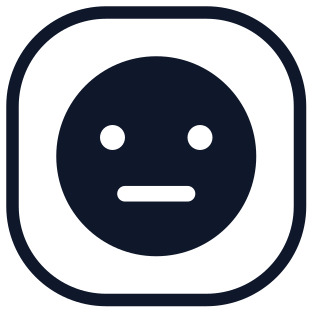
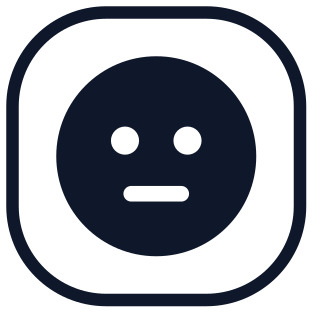
Increase neutral companion appearance chance

diff --git a/my-app/src/components/characterCompanion/CharacterCompanion.jsx b/my-app/src/components/characterCompanion/CharacterCompanion.jsx
@@ -259,10 +259,29 @@ const CharacterCompanion = forwardRef(({
 		};
 	}, [lastCompletedActivity, isTestFinished, isSpecialModeActive, consecutiveDrops, resilience, speak]);
 
+	useEffect(() => {
+		if (tourStep && tourStep !== '0') return;
+		if (isSpecialModeActive) return;
+
+		const hintInterval = setInterval(() => {
+			const now = Date.now();
+			const lastSpeak = Number(localStorage.getItem("lastCompanionSpeakTime") || 0);
+			// 60 seconds cooldown for random hints
+			if (now - lastSpeak > 60000) {
+				// 30% chance to appear every 10 seconds if cooldown is met
+				if (Math.random() < 0.3) {
+					setIsVisible(true);
+					speak('main-hints');
+					localStorage.setItem("lastCompanionSpeakTime", String(now));
+				}
+			}
+		}, 10000);
+
+		return () => clearInterval(hintInterval);
+	}, [tourStep, isSpecialModeActive, speak]);
+
 	// Remove the random face cycling interval
 	// (It used to just change currentCharacter randomly every 8s)
-
-	
 	useEffect(() => {
 		return () => {
 			if (speakTimeoutRef.current) {